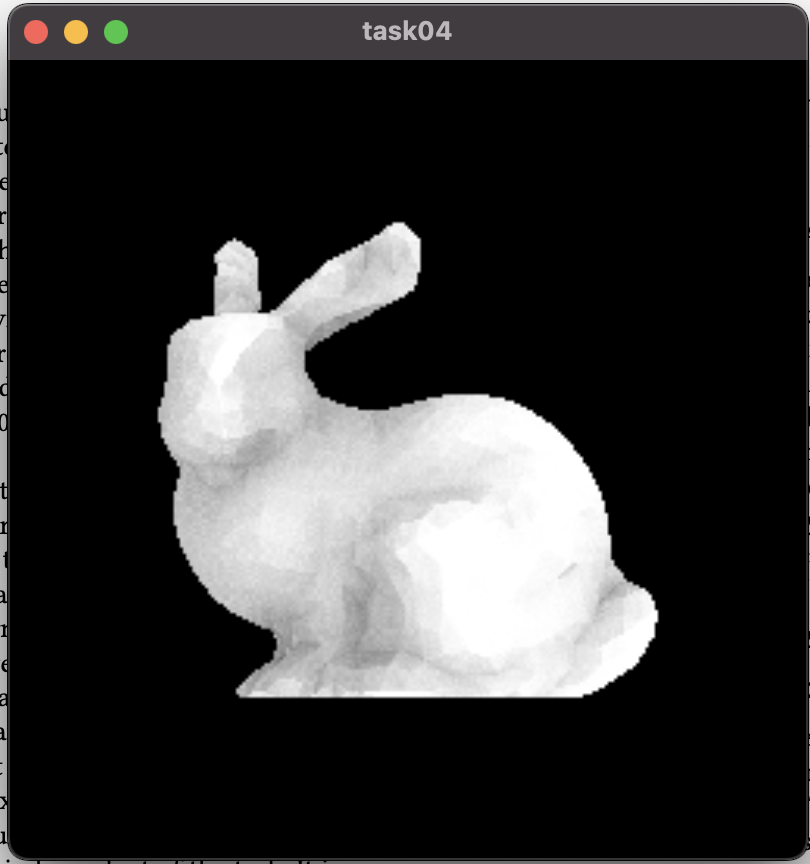
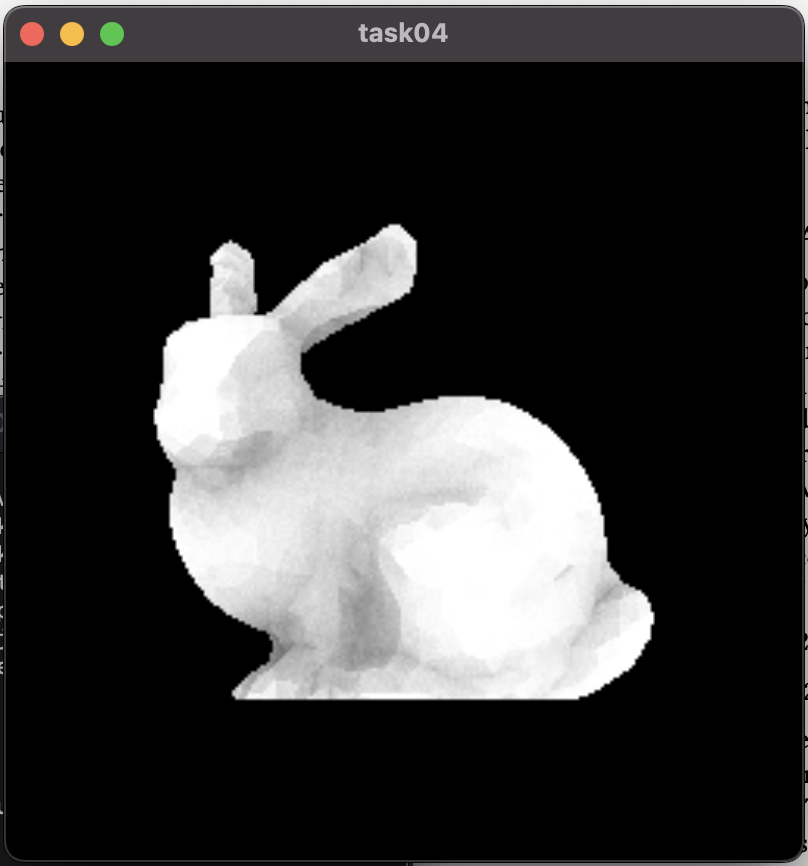
fix a bit

diff --git a/task04/main.cpp b/task04/main.cpp
@@ -51,7 +51,7 @@ double SamplingHemisphere(
   
   // define local frame around nrm
   double local_x[3]{ 0 };
-  if (nrm[0] < 1e-5) {
+  if (fabs(nrm[0]) < 1e-5) {
     local_x[0] = 1.0;
   } else {
     const auto len = sqrt(nrm[0]*nrm[0]+nrm[1]*nrm[1]);
